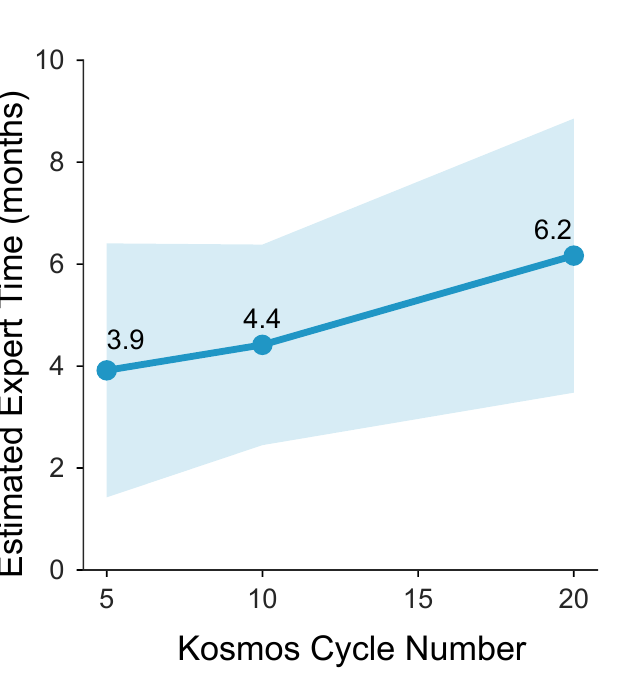
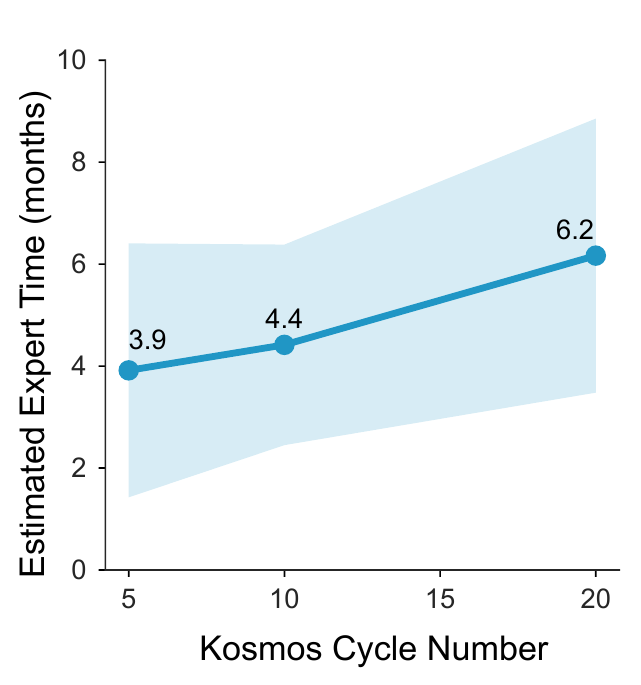
Agents for science: new opening, HW announcement, Part 3 reshuffle
36 slides. New research-loop diagram replaces the levels table, Kosmos
expert-time chart on its own slide, Supplementary Fig. 1 beside the Elo
figure, homework-timing announcement, and the Anthropic survey slides
reordered.

Claude-Session: https://claude.ai/code/session_01V1ZjyGfmTGW8n6K1vjuLua

diff --git a/slides/agents-for-science/agents-for-science.html b/slides/agents-for-science/agents-for-science.html
@@ -185,7 +185,7 @@ table { font-size: 21px; }
 img[alt~=&quot;center&quot;] { display: block; margin: 0 auto; }
 ;" data-marpit-pagination-total="36" data-size="16:9">
 <h1 id="claimed-gains-from-a-scientific-agent-kosmos">Claimed gains from a scientific agent (Kosmos)</h1>
-<p><strong>The number Edison advertises.</strong> Academic groups estimated that one 20-cycle Kosmos run — 12 hours, 1,500 papers, 42,000 lines of code — would have cost them <strong>6.2 months</strong> of their own research time.</p>
+<p>Academic groups estimated that one 20-cycle Kosmos run — 12 hours, 1,500 papers, 42,000 lines of code — would have cost them <strong>6.2 months</strong> of their own research time.</p>
 <p><img src="images/kosmos-expert-time.png" alt="center" style="width:360px;" /></p>
 <p><span class="cite">Kosmos, arXiv:2511.02824, Fig. 1e; shaded band ±1 SD. Points are 3.9, 4.4 and 6.2 months at cycles 5, 10 and 20.</span></p>
 <footer>ORIE 7190 · AI for Science · Agents for science</footer>
